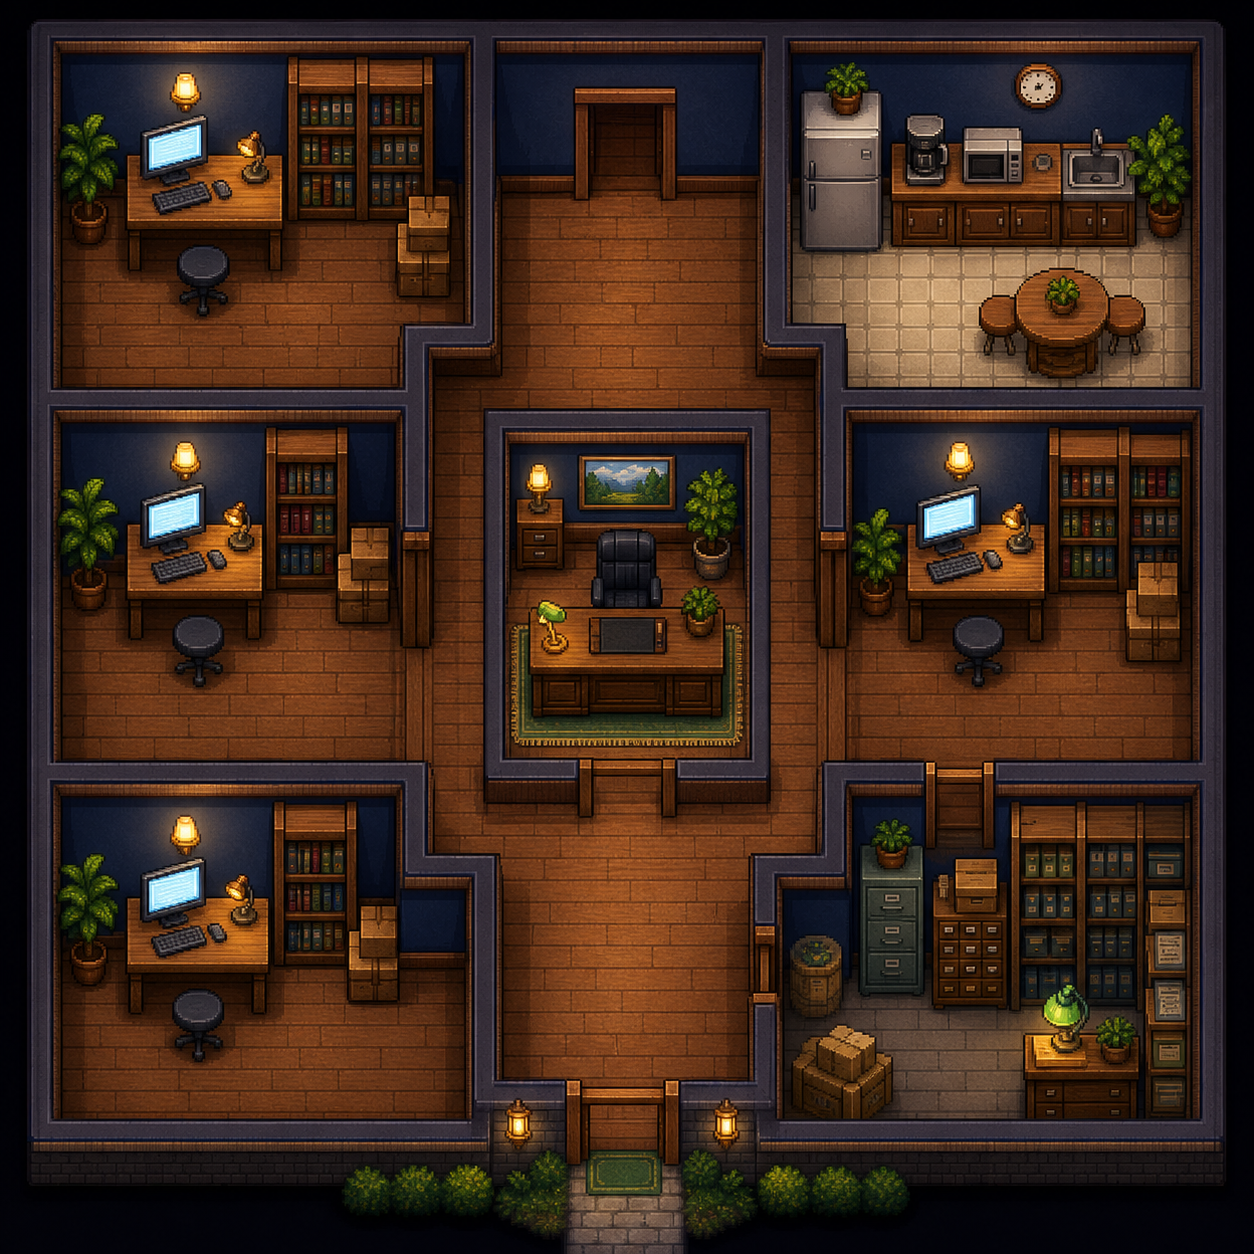
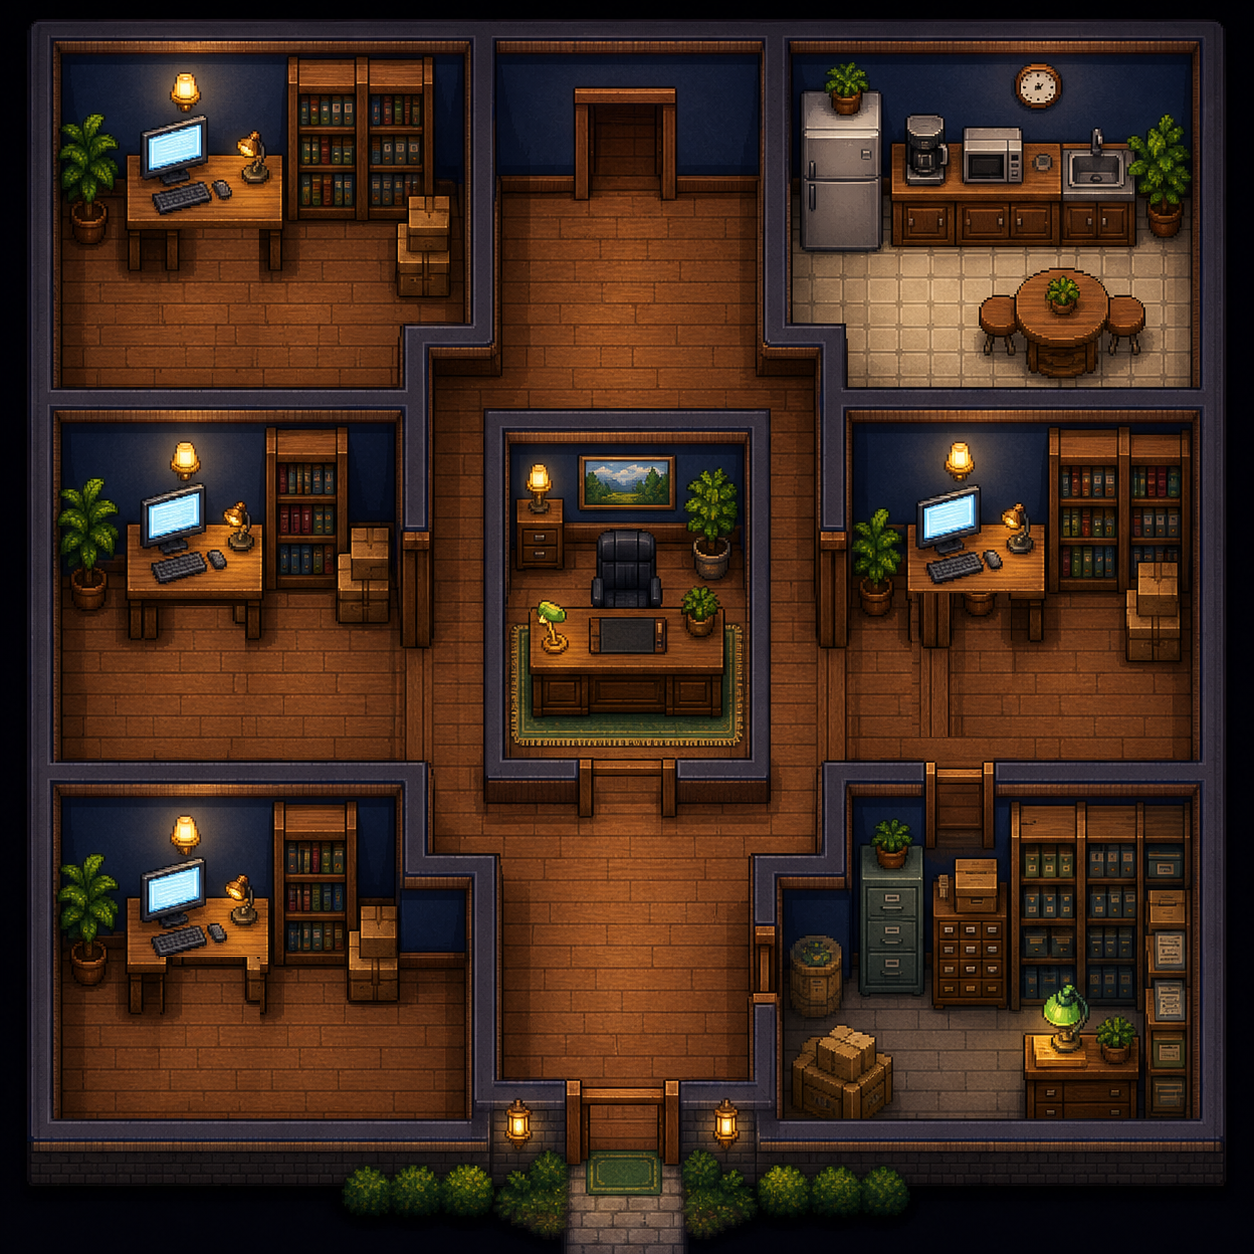
feat(web): seated pixel-art committee + Faculty Office on homepage
- Generated face-forward (idle) and seated-on-stool (working) agent sprites.
  Agents stand idle, sit at their desk and type when active; the Dean stays
  front-facing and stamps. Author waits in the lobby.
- Baked the stools into the seated sprites and removed them from the office art,
  so butt-on-stool is one rigid unit (no two-layer alignment).
- Dropped the redundant radar orbs — the typing character marks the active office.
- Replaced the homepage Pipeline + Faculty Room with the Office sim
  (new _home/FacultyOffice section); OrbField removed from the page.

diff --git a/packages/web/app/faculty/Office.tsx b/packages/web/app/faculty/Office.tsx
@@ -73,6 +73,50 @@ const MONITOR: Record<AgentName, Spot> = {
 /** The Records Archive (bottom-right room) — the clickable hotspot. */
 const ARCHIVE: Rect = { left: 62, top: 62.4, w: 33.8, h: 28.2 };
 
+/* The cast (public/faculty/cast/*.png). Each agent stands at their desk, feet on
+   the floor just below the monitor; the Author waits in the central lobby. STAND
+   is the feet point (sprites are bottom-centre anchored). CHAR_ASPECT is each
+   idle sprite's measured w/h, so the container box never reflows on idle↔type. */
+const STAND: Record<AgentName, Spot> = {
+  registrar: { x: 13.9, y: 26 },
+  auditor: { x: 13.9, y: 55 },
+  bursar: { x: 13.8, y: 84 },
+  dean: { x: 50.1, y: 48.3 },
+  endowment: { x: 75.7, y: 55 },
+};
+const AUTHOR_SPOT: Spot = { x: 50, y: 86.3 };
+const CHAR_ASPECT: Record<AgentName, number> = {
+  registrar: 0.389,
+  auditor: 0.397,
+  dean: 0.517,
+  bursar: 0.4,
+  endowment: 0.343,
+};
+const AUTHOR_ASPECT = 0.43;
+const CHAR_H = 15; // standing sprite height as % of the square stage
+
+/* When a computer-using office goes active the agent sits down at the terminal —
+   a seated sprite turned to face LEFT toward the screen (the monitor sits left of
+   the stool in every room), planted on the stool below the desk. SIT is the seat
+   point; sprites are bottom-centre anchored. The Dean has no terminal — he only
+   stamps — so he keeps his standing pose and is absent here. */
+type Typist = Exclude<AgentName, "dean">;
+const SIT: Record<Typist, Spot> = {
+  registrar: { x: 18.1, y: 25.2 },
+  auditor: { x: 17.4, y: 55.2 },
+  bursar: { x: 17.2, y: 84.9 },
+  endowment: { x: 79.7, y: 55.5 },
+};
+// Each seated sprite now includes its own stool (the office art's stools were
+// removed), so it's one rigid unit anchored by the stool's base on the floor.
+const WORK_ASPECT: Record<Typist, number> = {
+  registrar: 0.549,
+  auditor: 0.53,
+  bursar: 0.525,
+  endowment: 0.537,
+};
+const WORK_H = 16; // seated sprite (incl. stool) height as % of the square stage
+
 const GRADE_COLOR: Record<Grade, string> = {
   A: "var(--green)",
   B: "var(--blue)",
@@ -192,18 +236,56 @@ export function Office() {
                 const r = ROOMS[agent];
                 const lit = a.phase !== "idle";
                 const color = AGENT_COLOR[agent];
-                // Every agent beeps on their monitor screen; only the Dean
-                // (central office, no desk screen) beeps at the floor centre.
-                const orb = agent === "dean" ? DESK[agent] : MONITOR[agent];
                 // the Endowment's left wall is a doorway, so nudge its tag right
                 const nameDx = agent === "endowment" ? 5 : 1.5;
-                // the Endowment settles straight to "done", so also beep it while
+                // the agent is "at work" (sits down + glows) while active; the
+                // Endowment settles straight to "done", so also count it while
                 // it's paying out in-session (it never passes through "active").
                 const beeping =
                   a.phase === "active" ||
                   (agent === "endowment" && room.inSession && a.lines.length > 0);
+                const stand = STAND[agent];
+                const isDean = agent === "dean";
                 return (
                   <div key={agent}>
+                    {/* Standing pose, facing you. For the four typists this is the
+                        idle layer (fades out when they sit to work). The Dean
+                        never sits — he keeps this pose and just glows + stamps. */}
+                    <span
+                      className={styles.char}
+                      data-show={isDean || !beeping ? "true" : undefined}
+                      data-on={isDean && beeping ? "true" : undefined}
+                      aria-hidden="true"
+                      style={
+                        {
+                          left: `${stand.x}%`,
+                          top: `${stand.y}%`,
+                          height: `${CHAR_H}%`,
+                          width: `${CHAR_H * CHAR_ASPECT[agent]}%`,
+                          backgroundImage: `url(/faculty/cast/${agent}-idle.png)`,
+                          ["--c" as string]: color,
+                        } as CSSProperties
+                      }
+                    />
+                    {/* Active: seated at the terminal, facing left toward the
+                        screen, typing — bobs and glows in the agent's colour. */}
+                    {!isDean ? (
+                      <span
+                        className={`${styles.char} ${styles.working}`}
+                        data-show={beeping ? "true" : undefined}
+                        aria-hidden="true"
+                        style={
+                          {
+                            left: `${SIT[agent as Typist].x}%`,
+                            top: `${SIT[agent as Typist].y}%`,
+                            height: `${WORK_H}%`,
+                            width: `${WORK_H * WORK_ASPECT[agent as Typist]}%`,
+                            backgroundImage: `url(/faculty/cast/${agent}-work.png?v=3)`,
+                            ["--c" as string]: color,
+                          } as CSSProperties
+                        }
+                      />
+                    ) : null}
                     <div
                       className={styles.nameTag}
                       data-on={lit ? "true" : undefined}
@@ -227,18 +309,30 @@ export function Office() {
                       <Sigil agent={agent} size={15} />
                       {AGENT_META[agent].name.replace(/^The\s+/, "")}
                     </div>
-                    {beeping ? (
-                      <span
-                        className={styles.beep}
-                        aria-hidden="true"
-                        style={
-                          { left: `${orb.x}%`, top: `${orb.y}%`, ["--c" as string]: color } as CSSProperties
-                        }
-                      />
-                    ) : null}
                   </div>
                 );
               })}
+
+              {/* The author waits in the central lobby while the committee sits;
+                  lights up when the Endowment pays them out. */}
+              {submission ? (
+                <span
+                  className={`${styles.char} ${styles.author}`}
+                  data-show="true"
+                  data-paid={settled ? "true" : undefined}
+                  aria-hidden="true"
+                  style={
+                    {
+                      left: `${AUTHOR_SPOT.x}%`,
+                      top: `${AUTHOR_SPOT.y}%`,
+                      height: `${CHAR_H}%`,
+                      width: `${CHAR_H * AUTHOR_ASPECT}%`,
+                      backgroundImage: "url(/faculty/cast/author-idle.png)",
+                      ["--c" as string]: "var(--green)",
+                    } as CSSProperties
+                  }
+                />
+              ) : null}
 
               {showIntake ? (
                 <span className={styles.intake}>📄&nbsp;NEW&nbsp;THESIS · {submission?.authorHandle}</span>

diff --git a/packages/web/app/faculty/office.module.css b/packages/web/app/faculty/office.module.css
@@ -69,7 +69,7 @@
   overflow: hidden;
   border: 1px solid var(--border-2);
   border-radius: var(--r-lg);
-  background: #0a0d13 url("/faculty/office.png") center / cover no-repeat;
+  background: #0a0d13 url("/faculty/office.png?v=3") center / cover no-repeat;
   box-shadow: 0 30px 80px -42px rgba(0, 0, 0, 0.9);
 }
 .overlay {
@@ -78,38 +78,50 @@
   pointer-events: none;
 }
 
-/* the active office is marked by a "beeping" radar orb in the agent's colour —
-   a glowing core with two staggered expanding rings. Anchored at the office's
-   floor centre, so when characters arrive it hovers over the active one. */
-.beep {
+/* the cast — generated pixel-art sprites composited onto the office floor. Each
+   agent is bottom-centre anchored at their desk; swapping the background-image
+   (idle↔type) changes pose, and the box is pre-sized by the idle aspect so it
+   never reflows. Working agents bob as if typing and glow in their colour. */
+.char {
   position: absolute;
-  transform: translate(-50%, -50%);
-  z-index: 5;
-  width: 18px;
-  height: 18px;
-  border-radius: 999px;
-  background: radial-gradient(circle at 35% 30%, #fff, var(--c) 62%);
-  animation: beepGlow 1.6s var(--ease) infinite;
+  transform: translate(-50%, -100%);
+  background-size: contain;
+  background-position: bottom center;
+  background-repeat: no-repeat;
+  image-rendering: pixelated;
+  pointer-events: none;
+  z-index: 3;
+  opacity: 0;
+  filter: drop-shadow(0 3px 3px rgba(0, 0, 0, 0.5));
+  transition: opacity 0.28s var(--ease);
 }
-.beep::before,
-.beep::after {
-  content: "";
-  position: absolute;
-  inset: -3px;
-  border-radius: 999px;
-  border: 2px solid var(--c);
-  animation: ping 1.6s var(--ease) infinite;
+.char[data-show="true"] {
+  opacity: 1;
 }
-.beep::after {
-  animation-delay: 0.8s;
+/* the seated "at the terminal" layer bobs as if typing and glows in its colour */
+.working[data-show="true"] {
+  filter: drop-shadow(0 0 7px var(--c)) drop-shadow(0 3px 3px rgba(0, 0, 0, 0.55));
+  animation: typeBob 0.44s steps(2, end) infinite;
 }
-@keyframes ping {
-  0% { transform: scale(1); opacity: 0.7; }
-  100% { transform: scale(3.4); opacity: 0; }
+/* the Dean never sits — while deliberating he glows and rocks as he weighs it */
+.char[data-on="true"] {
+  filter: drop-shadow(0 0 7px var(--c)) drop-shadow(0 3px 3px rgba(0, 0, 0, 0.55));
+  animation: typeBob 0.6s steps(2, end) infinite;
 }
-@keyframes beepGlow {
-  0%, 100% { box-shadow: 0 0 14px 2px color-mix(in srgb, var(--c) 80%, transparent); }
-  50% { box-shadow: 0 0 22px 5px color-mix(in srgb, var(--c) 92%, transparent); }
+@keyframes typeBob {
+  0% { transform: translate(-50%, -100%); }
+  50% { transform: translate(-50%, calc(-100% - 2.5px)); }
+  100% { transform: translate(-50%, -100%); }
+}
+
+/* the author waits in the lobby; lights up and hops when the Endowment pays out */
+.author {
+  z-index: 4;
+  filter: drop-shadow(0 3px 4px rgba(0, 0, 0, 0.55));
+}
+.author[data-paid="true"] {
+  filter: drop-shadow(0 0 9px var(--c)) drop-shadow(0 3px 4px rgba(0, 0, 0, 0.55));
+  animation: typeBob 0.5s steps(2, end) infinite;
 }
 
 /* always-on room nameplate so each office is identifiable; brightens when active */
@@ -466,6 +478,6 @@
 }
 
 @media (prefers-reduced-motion: reduce) {
-  .ticket, .coin, .pulse, .stamp, .intake, .beep, .feedBlock { animation: none; }
-  .beep::before, .beep::after { animation: none; opacity: 0; }
+  .ticket, .coin, .pulse, .stamp, .intake, .feedBlock { animation: none; }
+  .char, .working { animation: none; }
 }

diff --git a/packages/web/app/page.tsx b/packages/web/app/page.tsx
@@ -5,17 +5,15 @@
  * it to The Record; a backend error degrades to a zero state rather than
  * failing the page. Everything else is static server markup plus a few
  * interactive/animated client children (verdict tape, count-ups, the live
- * Faculty Room, copy). Section order mirrors the mockup: hero · pipeline · live
- * Faculty Room · record · faculty · the 25% split · $THESIS strip · CTA.
+ * Faculty Office, copy). Section order: hero · Faculty Office · record · faculty
+ * · the 25% split · $THESIS strip · CTA.
  */
 import { TopBar } from "@/components/shell/TopBar";
 import { Footer } from "@/components/shell/Footer";
 import { getDashboard, ThesisApiError, type DashboardData } from "@/lib/api";
 import { VerdictTape } from "./_home/VerdictTape";
 import { Hero } from "./_home/Hero";
-import { OrbField } from "./_home/OrbField";
-import { Pipeline } from "./_home/Pipeline";
-import { FacultyRoom } from "./_home/FacultyRoom";
+import { FacultyOffice } from "./_home/FacultyOffice";
 import { Record } from "./_home/Record";
 import { Faculty } from "./_home/Faculty";
 import { Split } from "./_home/Split";
@@ -38,12 +36,10 @@ export default async function Home() {
   return (
     <>
       <TopBar />
-      <OrbField />
       <VerdictTape />
       <main>
         <Hero />
-        <Pipeline />
-        <FacultyRoom />
+        <FacultyOffice />
         <Record data={dashboard} />
         <Faculty />
         <section id="token" className="py-[30px]">

diff --git a/packages/web/app/_home/FacultyOffice.tsx b/packages/web/app/_home/FacultyOffice.tsx
@@ -1,0 +1,21 @@
+/**
+ * The Faculty Office on the homepage.
+ *
+ * The 2D pixel-art committee sim — agents sit at their desks and review a thesis
+ * in real time — that replaced both the static Pipeline and the card-based
+ * Faculty Room. Wraps the shared <Office> client island (also rendered on
+ * /faculty) in the homepage's section frame.
+ */
+import { SectionHead } from "./SectionHead";
+import { Office } from "@/app/faculty/Office";
+
+export function FacultyOffice() {
+  return (
+    <section id="office" className="py-[30px]">
+      <div className="mx-auto max-w-shell px-7">
+        <SectionHead index="01" title="The Faculty Office" meta="THE COMMITTEE · LIVE" />
+        <Office />
+      </div>
+    </section>
+  );
+}
